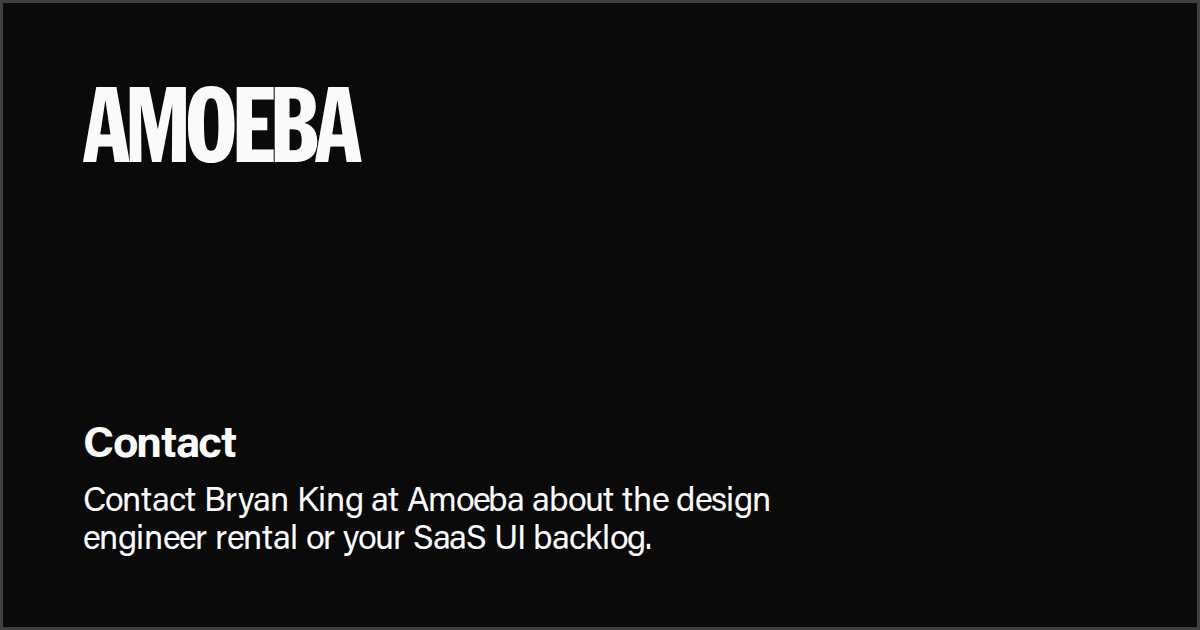
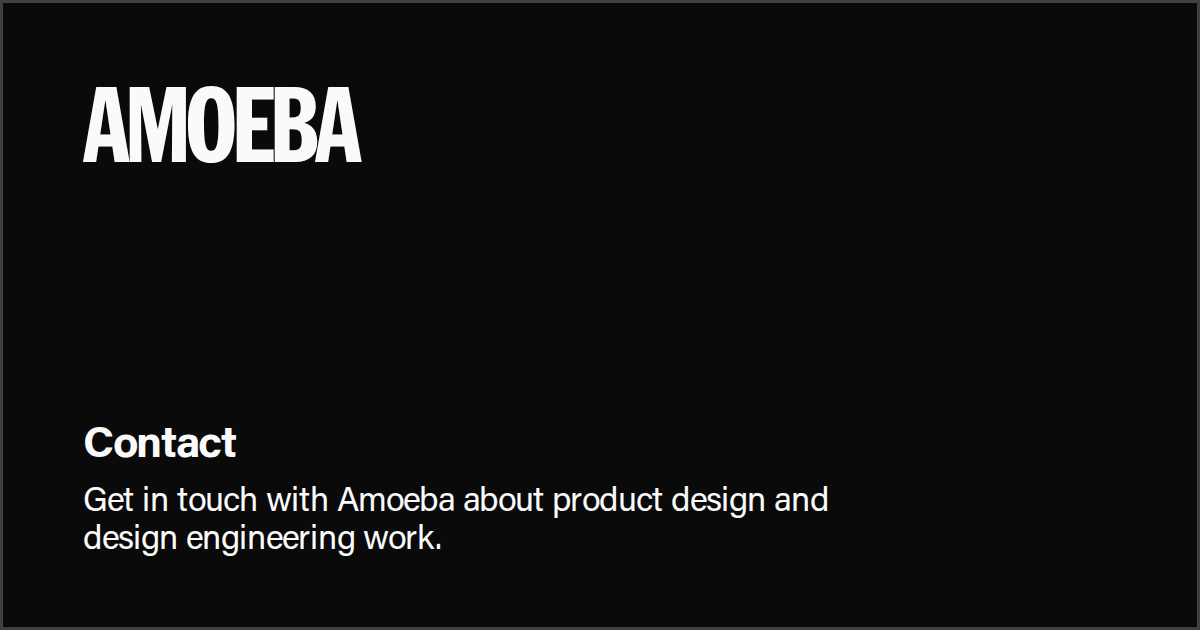
Simplify contact copy, drop footer contact link
Remove Contact from footer nav. Replace offer-specific intro on /contact
and the offer page contact form with a single generic line. Generic meta
and OG subtitle for /contact; regenerate contact OG image.

Changed region(s): [[0.0617, 0.754, 0.7092, 0.9048]]

diff --git a/.seo/run-log.md b/.seo/run-log.md
@@ -2,6 +2,10 @@
 
 Append-only. Newest entry at the top.
 
+## 2026-10-11 — Simplify contact copy, drop footer contact link
+
+- Removed `/contact` from `Footer.astro`. Contact page intro and offer page `#contact` form intro use one line: "Have a project or a question? Send a note and I'll get back to you." Meta description and OG subtitle for `/contact` generic (product design and design engineering). Regenerated `public/og/contact.png` via `bun run generate:og`. `npm test` and `npm run build` exited 0.
+
 ## 2026-10-11 — Contact form and Resend API
 
 - Scope: port Resend contact patterns from `boldlybryan/amoeba.design` (honeypot `_gotcha`, per-IP in-memory rate limit, validation, notification + confirmation emails). No Cal.com, Attio, Stripe, or questionnaire UI.
